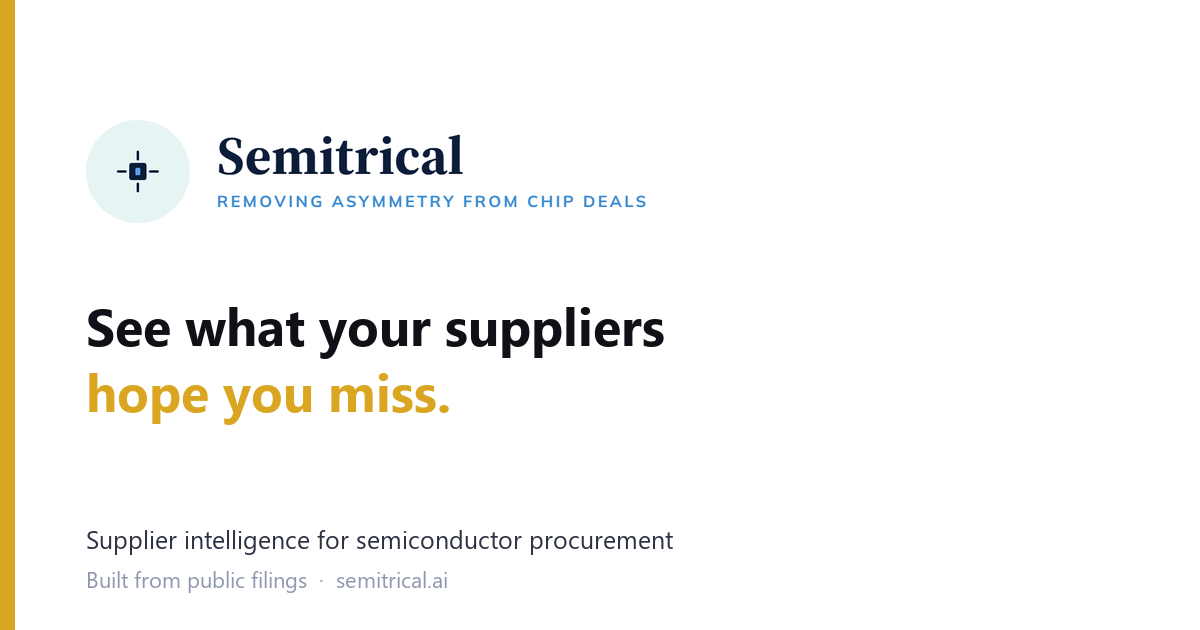
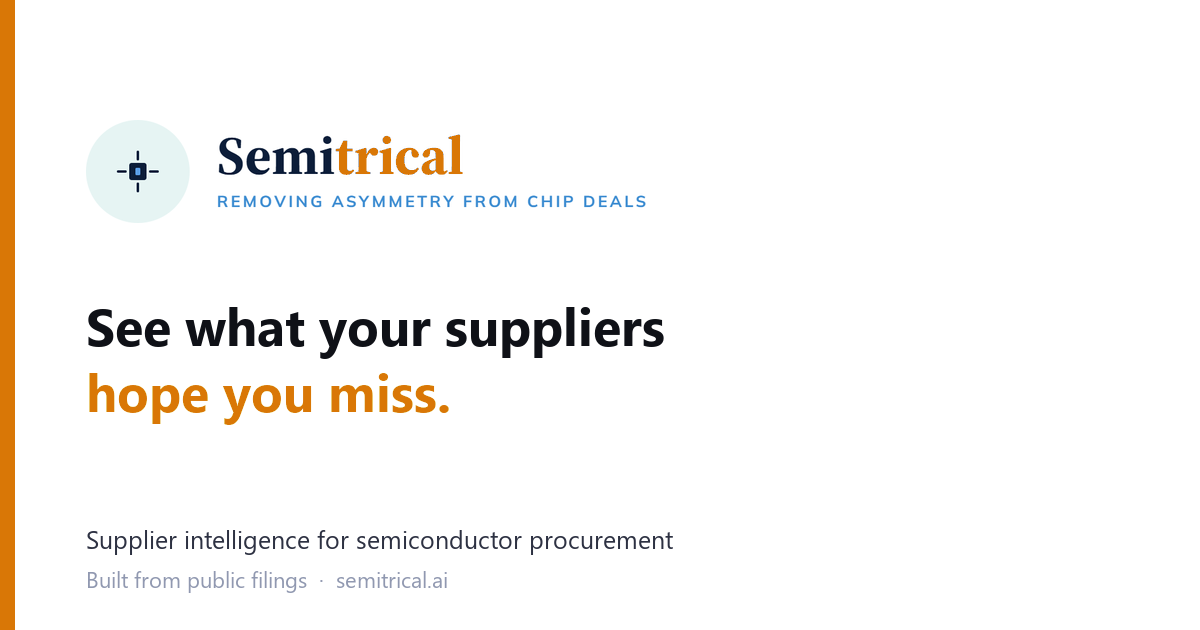
brand: two-tone wordmark — "trical" in orange, accent follows
The wordmark now reads Semi (navy) + trical (#D97706). Recoloured in place
rather than re-set, so the letterforms and anti-aliasing are unchanged: each
pixel's white->navy blend was recovered and re-laid in orange.

Also updated so the brand is one colour rather than two similar ones:
- og-semitrical.png — same wordmark split, plus every gold accent on the card
  (left edge bar, "hope you miss.")
- semitrical.css — --gold #DAA520 -> #D97706, --gold-soft warmed to match.
  This shifts every accent on the site (badges, section labels, hover borders),
  which is the point: a gold accent beside an orange wordmark reads as a mistake.

semitrical-mark.png and the favicon are the crosshair icon only, no wordmark,
so they are untouched.

Changed region(s): [[0.0, 0.0, 0.0308, 1.0], [0.0617, 0.6032, 0.37, 0.6635], [0.2775, 0.2111, 0.4008, 0.3016]]

diff --git a/assets/css/semitrical.css b/assets/css/semitrical.css
@@ -11,7 +11,7 @@
 :root {
   --ink: #0f1117; --ink-2: #2d3142; --ink-3: #5c6078; --ink-4: #9098b0;
   --surface: #f7f8fc; --white: #fff; --rule: #e2e4ea;
-  --gold: #DAA520; --gold-soft: #f5e6b8;
+  --gold: #D97706; --gold-soft: #f6ddb8;
   --font: 'DM Sans', sans-serif; --mono: 'DM Mono', monospace;
 }
 * { box-sizing: border-box; margin: 0; padding: 0; }
